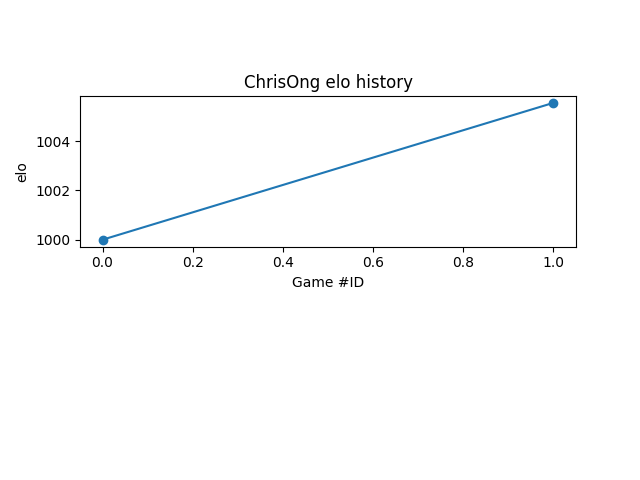
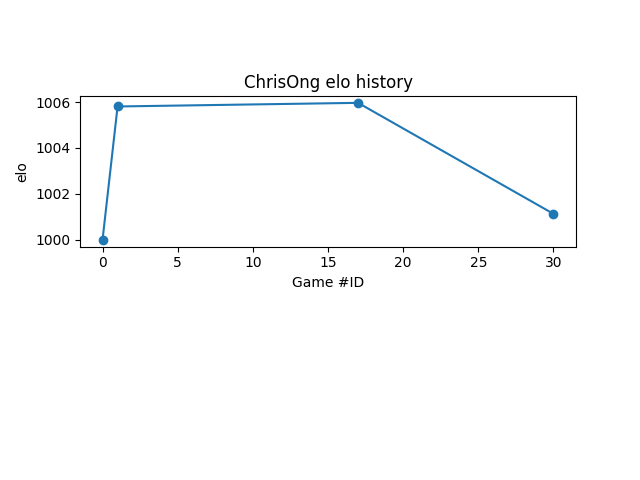
refactor indexing + update graphs
refactor computations to be done at once

bandaid colormap fix

framerate + writer change

diff --git a/plotter.py b/plotter.py
@@ -1,7 +1,8 @@
 import matplotlib.pyplot as plt
-from matplotlib import animation
+from matplotlib import animation, cm
 import pandas as pd
 import numpy as np
+import copy
 from rank_players import get_game_teams
 from util import ELO_GRAPH_DIR
 from scipy.interpolate import make_interp_spline
@@ -33,9 +34,16 @@ def anim_elo_history(players, games, elo_history):
     # get elo as df with columns player names
     trajs = pd.DataFrame(elo_history).T
     # append start rating of 1000 for players of the first game
-    # (hence game -1 is just everyone at 1000)
+    # (hence game 0 is just everyone at 1000)
     trajs.loc[-1] = 1000
+    trajs.index = trajs.index + 1
     trajs = trajs.sort_index()
+    
+    # this fixes indexing issues
+    # the index of a game is the true number of that game
+    games = copy.deepcopy(games)
+    num_games = len(games)
+    games.insert(0, {})
 
     # get first game played
     first_games = {}
@@ -43,82 +51,117 @@ def anim_elo_history(players, games, elo_history):
         for i, game in enumerate(games):
             game_teams = get_game_teams(game)
             if (player in game_teams[0]) | (player in game_teams[1]):
-                first_games[player] = i
+                first_games[player] = i 
                 break
 
     # fixed at 30FPS
     INTERVAL = 1 / 60 * 1000 # not actually matters
-    FPS = 35
+    FPS = 30
     TOTAL_RUNTIME = 5 # in seconds
-    FRAMES_PER_GAME = TOTAL_RUNTIME * FPS // (len(games) + 1)
+    FRAMES_PER_GAME = TOTAL_RUNTIME * FPS // (num_games + 1)
     plt.close('all')
-    fig, ax = plt.subplots(1, 1, figsize = (6, 3))
+    fig, ax = plt.subplots(1, 1, figsize = (6, 4))
 
-    EASE_IN_FUNC = lambda t: t # ** 2
-    EASE_OUT_FUNC = lambda t: 1 - t # ** 2
+    EASE_IN_FUNC = lambda t: t ** 2
+    EASE_OUT_FUNC = lambda t: (1 - t) ** 2
+
+    BASE_MARKERSIZE = 18
+    MAX_ADDL_MARKERSIZE = 36
+
+    ## TODO: THIS BREAKS ONCE 20 PLAYERS
+    cycle = cm.tab20(np.linspace(0, 1, len(players), endpoint = False)) 
+
+    # precompute splines, markers, and thicknesses
+    paths = {}
+    for player in players:
+        # support for x axis, take game before to start at 1000
+        xsup = np.arange(first_games[player] - 1, num_games + 1)
+        # finer grain for spline, with one increment per frame
+        xnew = np.linspace(min(xsup), max(xsup), FRAMES_PER_GAME * (len(xsup) - 1) + 1)
+
+        # get elos for the player over their support
+        trunc_traj = trajs[player][xsup]
+        spl = make_interp_spline(xsup, trunc_traj, min(3, len(xsup) - 1))
+        spline_path = spl(xnew)
+
+        in_game_indicator = [int(player in games[game].values()) for game in xsup]
+
+        # gen marker sizes
+        marker_sizes = np.array([BASE_MARKERSIZE + MAX_ADDL_MARKERSIZE * game for game in in_game_indicator])
+        
+        # for endpoint marker thickness
+        # we ignore the very first point of xnew, since it always an unplayed game
+        inst_thickness = np.zeros((2, FRAMES_PER_GAME * (len(xsup) - 1)))
+
+        # sample the right endpoint of every interval of [0, 1]
+        delta, delta_range = np.linspace(0, 1, FRAMES_PER_GAME, endpoint=False, retstep=True)
+        delta_range += delta
+
+        up_section = EASE_IN_FUNC(delta_range)
+        down_section = EASE_OUT_FUNC(delta_range)
+
+        for game_num, in_game in zip(xsup, in_game_indicator):
+            if game_num == 0:
+                continue
+            entry_index = FRAMES_PER_GAME * (game_num - (first_games[player] - 1))
+            if in_game:
+                # queue up upscaling for this 
+                inst_thickness[0, entry_index - FRAMES_PER_GAME:entry_index] = up_section
+
+                # queue up downscaling for the next section
+                if game_num < num_games:
+                    inst_thickness[1, entry_index:entry_index + FRAMES_PER_GAME] = down_section
+
+        inst_thickness = inst_thickness.max(axis = 0)
+        # removed to use this adjustment for markers
+        paths[player] = xsup, trunc_traj, marker_sizes, xnew, spline_path, inst_thickness
+    
+    def return_at_time(player, time):
+        xsup, trunc_traj, marker_sizes, xnew, spline_path, inst_thickness = paths[player]
+        # filter to only plot up to current time
+        mask = xsup <= time
+        curr_xsup = xsup[mask]
+        curr_trunc_traj = trunc_traj[mask]
+        curr_marker_sizes = marker_sizes[mask]
+
+        mask = xnew <= time
+        curr_xnew = xnew[mask] # we look at the RH endpoint
+        curr_spline_path = spline_path[mask]
+        curr_inst_thickness = inst_thickness[mask[1:]]
+
+        return curr_xsup, curr_trunc_traj, curr_marker_sizes, curr_xnew, curr_spline_path, curr_inst_thickness
+
 
     # animation for frame i
     def animate(i):
-        BASE_LINEWIDTH = 1.5
-        MAX_ADDL_LINEWIDTH = 1.5
-        BASE_MARKERSIZE = 18
-        MAX_ADDL_MARKERSIZE = 36
         # clear plot
         ax.cla()
 
-        # time starts at -1 and ends at len(games)
-        curr_time_as_game = i / FRAMES_PER_GAME - 1
+        # time starts at 0 and ends at len(games) (+1 more second of freeze at end)
+        curr_time_as_game = i / FRAMES_PER_GAME
 
-        # collect current and next players for fadeout/in
-        curr_game = int(np.floor(curr_time_as_game))
-        curr_players = []
-        next_players = []
-        if curr_game >= 0 and curr_game < len(games):
-            curr_players = [p for t in get_game_teams(games[curr_game]) for p in t]
-        next_game = int(np.floor(curr_time_as_game + 1))
-        if next_game < len(games):
-            next_players = [p for t in get_game_teams(games[next_game]) for p in t]
-        delta = curr_time_as_game - curr_game # fraction of time passed
-
-        for player in players:
-            # blank plots for people who haven't played their first game
-            if curr_time_as_game < first_games[player] - 1:
-                ax.plot([], [])
-                ax.scatter([], [], label = player)
-                continue
-        
-            # support for x axis, take game before to start at 1000
-            xsup = np.arange(first_games[player] - 1, len(games))
-            # finer grain for spline, with one increment per frame
-            xnew = np.linspace(min(xsup), max(xsup), FRAMES_PER_GAME * (len(xsup) - 1) + 1)
-
-            # get elos for the player over their support
-            trunc_traj = trajs[player][xsup]
-            spl = make_interp_spline(xsup, trunc_traj, min(3, len(xsup) - 1))
-
+        for i, player in enumerate(players):
             # filter to only plot up to current time
-            xnew = xnew[xnew <= curr_time_as_game]
-            trunc_traj = list(trunc_traj[xsup <= curr_time_as_game])
-            xsup = xsup[xsup <= curr_time_as_game]
-            spline_path = spl(xnew)
+            curr_xsup, curr_trunc_traj, curr_marker_sizes, curr_xnew, curr_spline_path, curr_inst_thickness = return_at_time(player, curr_time_as_game)
 
-            # for those in both curr and next, take max adjustment
-            width_adjustment_queue = []
-            if player in curr_players:
-                width_adjustment_queue.append(EASE_OUT_FUNC(delta))
-            if player in next_players:
-                width_adjustment_queue.append(EASE_IN_FUNC(delta))
-            width_adjustment = 0 if not len(width_adjustment_queue) else max(width_adjustment_queue)
-
-            marker_sizes = [BASE_MARKERSIZE + MAX_ADDL_MARKERSIZE if game >= 0 and player in games[game].values() 
-                                else BASE_MARKERSIZE for game in xsup]
-            ax.plot(1 + xnew, spline_path, linewidth = BASE_LINEWIDTH, alpha = 0.8) # + width_adjustment * MAX_ADDL_LINEWIDTH determined looks ugly
             # append on point in current time to have line end with a dot
-            ax.scatter(list(1 + xsup) + [xnew[-1] + 1], trunc_traj + [spline_path[-1]], label = player, 
-                        s = marker_sizes + [BASE_MARKERSIZE + width_adjustment * MAX_ADDL_MARKERSIZE], alpha = 0.8)
+            if curr_inst_thickness.shape[0] > 0:
+                ax.scatter(list(curr_xsup) + [curr_xnew[-1]], list(curr_trunc_traj) + [curr_spline_path[-1]], label = player,
+                        s = list(curr_marker_sizes) + [BASE_MARKERSIZE + curr_inst_thickness[-1] * MAX_ADDL_MARKERSIZE], 
+                        alpha = 0.8,
+                        color = cycle[i])
+            
+                ax.plot(curr_xnew, curr_spline_path, color = cycle[i], alpha = 0.8)
+
+            else:
+                ax.scatter([], [], label = player,
+                        alpha = 0.8,
+                        color = cycle[i])
+
+
         # fix x-axis 
         # possible change: sliding x/y axis
-        ax.set_xlim([0, len(games)])
+        ax.set_xlim([0, num_games])
         Y_MIN = trajs.min().min()
         Y_MAX = trajs.max().max()
         Y_RANGE = Y_MAX - Y_MIN
@@ -126,5 +169,8 @@ def anim_elo_history(players, games, elo_history):
         ax.legend(loc = "center left", bbox_to_anchor = (1, 0.5))
         fig.tight_layout()
 
-    anim = animation.FuncAnimation(fig, animate, frames = range(1, FRAMES_PER_GAME * len(games) + FPS + 1), interval = INTERVAL / 10, blit = False)
-    anim.save("elo_graphs/elo.gif", animation.ImageMagickWriter(fps = FPS))
+    # animate(15)
+    # plt.show()
+
+    anim = animation.FuncAnimation(fig, animate, frames = range(1, FRAMES_PER_GAME * num_games + FPS + 1), interval = INTERVAL / 10, blit = False)
+    anim.save("elo_graphs/elo.gif", animation.FFMpegWriter(fps = FPS))
